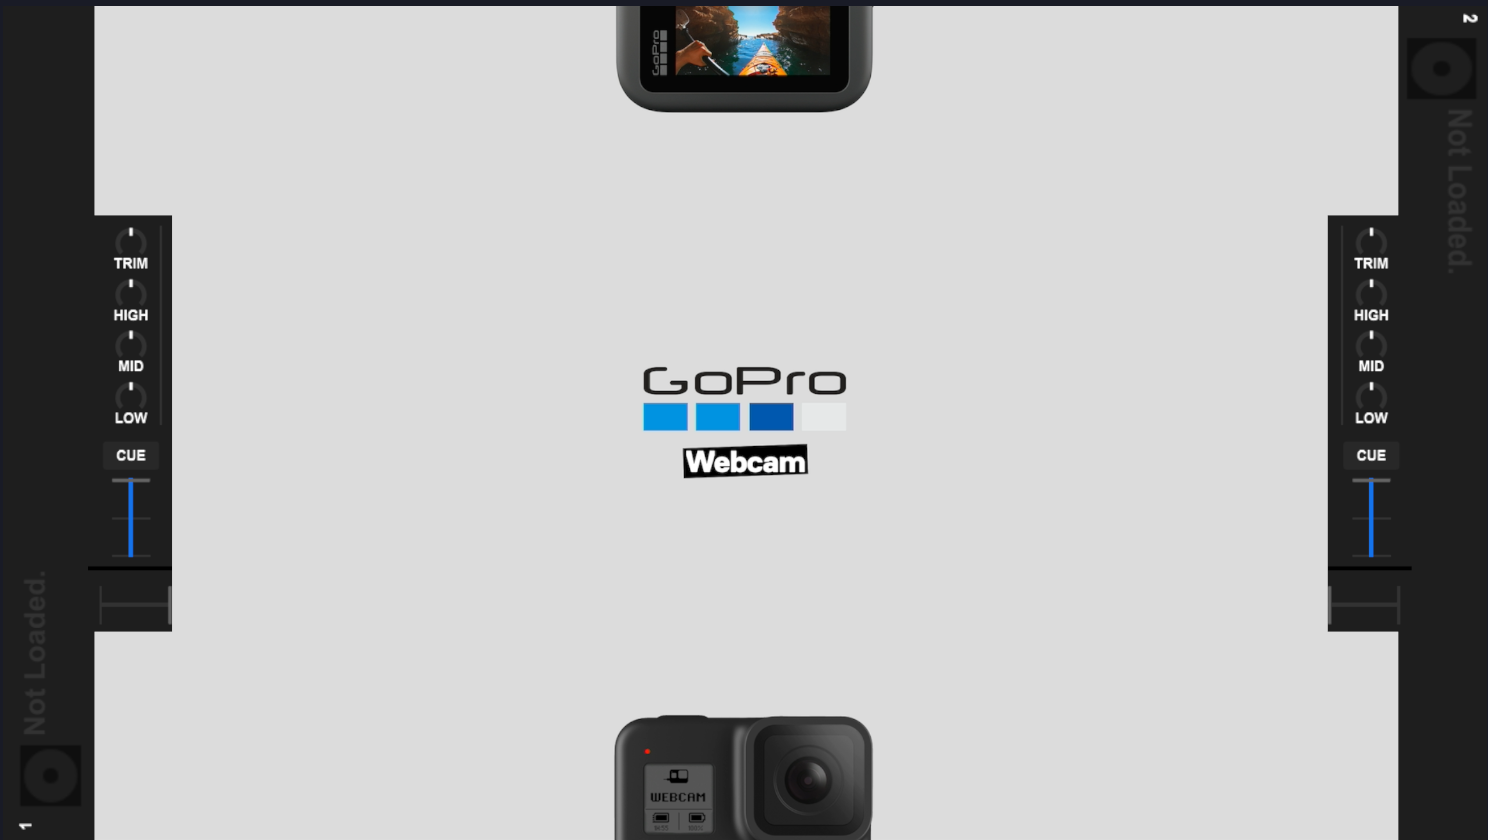
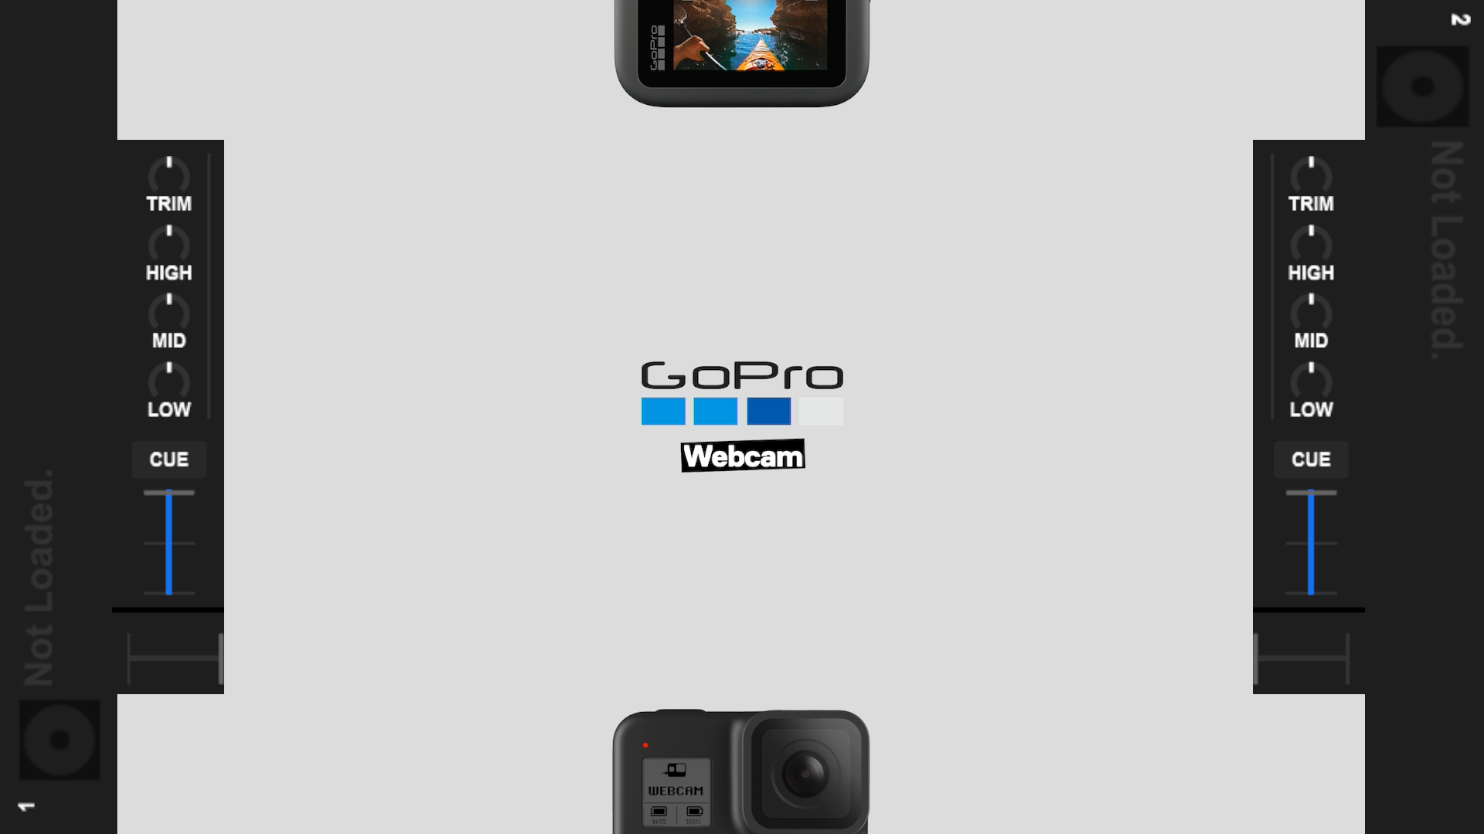
Bruh, working borderfind

diff --git a/autoborderfind.py b/autoborderfind.py
@@ -1,47 +1,43 @@
-import cv2
-import numpy as np
 from PIL import Image
-import matplotlib.pyplot as plt
 
-def auto_crop_image(image_path, border_color=(30, 30, 30), tolerance=10000, display=False):
+def main():
     # Load the image
-    img = cv2.imread(image_path)
-    
-    # Convert to grayscale and apply a threshold to highlight the border
-    gray = cv2.cvtColor(img, cv2.COLOR_BGR2GRAY)
-    _, thresh = cv2.threshold(gray, 1, 255, cv2.THRESH_BINARY)
-    
-    # Find contours in the thresholded image
-    contours, _ = cv2.findContours(thresh, cv2.RETR_EXTERNAL, cv2.CHAIN_APPROX_SIMPLE)
-    
-    # Identify the largest contour, assuming it represents the main content area
-    main_contour = max(contours, key=cv2.contourArea)
-    
-    # Get bounding box coordinates around the main content
-    x, y, w, h = cv2.boundingRect(main_contour)
-    
-    # Crop the image using the bounding box
-    cropped_img = img[y:y+h, x:x+w]
-    
-    # Display the cropped image if needed
-    if display:
-        plt.imshow(cv2.cvtColor(cropped_img, cv2.COLOR_BGR2RGB))
-        plt.title("Cropped Image")
-        plt.axis('off')
-        plt.show()
-    
-    return cropped_img, (x, y, w, h)
+    image = Image.open('image.png')
+    pixels = image.load()
+    width, height = image.size
+    grey = (30, 30, 30)
 
-def save_cropped_image(cropped_img, output_path='cropped_image.png'):
-    # Save the cropped image
-    cv2.imwrite(output_path, cropped_img)
-    print(f"Cropped image saved to {output_path}")
+    # Lists to hold the x and y coordinates of grey pixels
+    x_coords = []
+    y_coords = []
 
-# Define the path to your input image
-image_path = 'image.png'
+    # Iterate over each pixel in the image
+    for y in range(height):
+        for x in range(width):
+            pixel = pixels[x, y]
+            # Handle images with RGBA channels
+            if len(pixel) >= 3:
+                rgb = pixel[:3]
+            else:
+                rgb = pixel
+            # Check if the pixel matches the specific grey color
+            if rgb == grey:
+                x_coords.append(x)
+                y_coords.append(y)
 
-# Auto-crop the image to remove the border
-cropped_img, coordinates = auto_crop_image(image_path, display=True)
+    # If grey pixels are found, proceed to crop
+    if x_coords and y_coords:
+        left = min(x_coords)
+        right = max(x_coords)
+        top = min(y_coords)
+        bottom = max(y_coords)
 
-# Save the cropped image
-save_cropped_image(cropped_img)
+        # Crop the image to the bounding box of grey pixels
+        cropped_image = image.crop((left, top, right + 1, bottom + 1))
+        cropped_image.save('cropped_image.png')
+        print('Cropped image saved as cropped_image.png')
+    else:
+        print('No grey pixels found in the image.')
+
+if __name__ == '__main__':
+    main()
